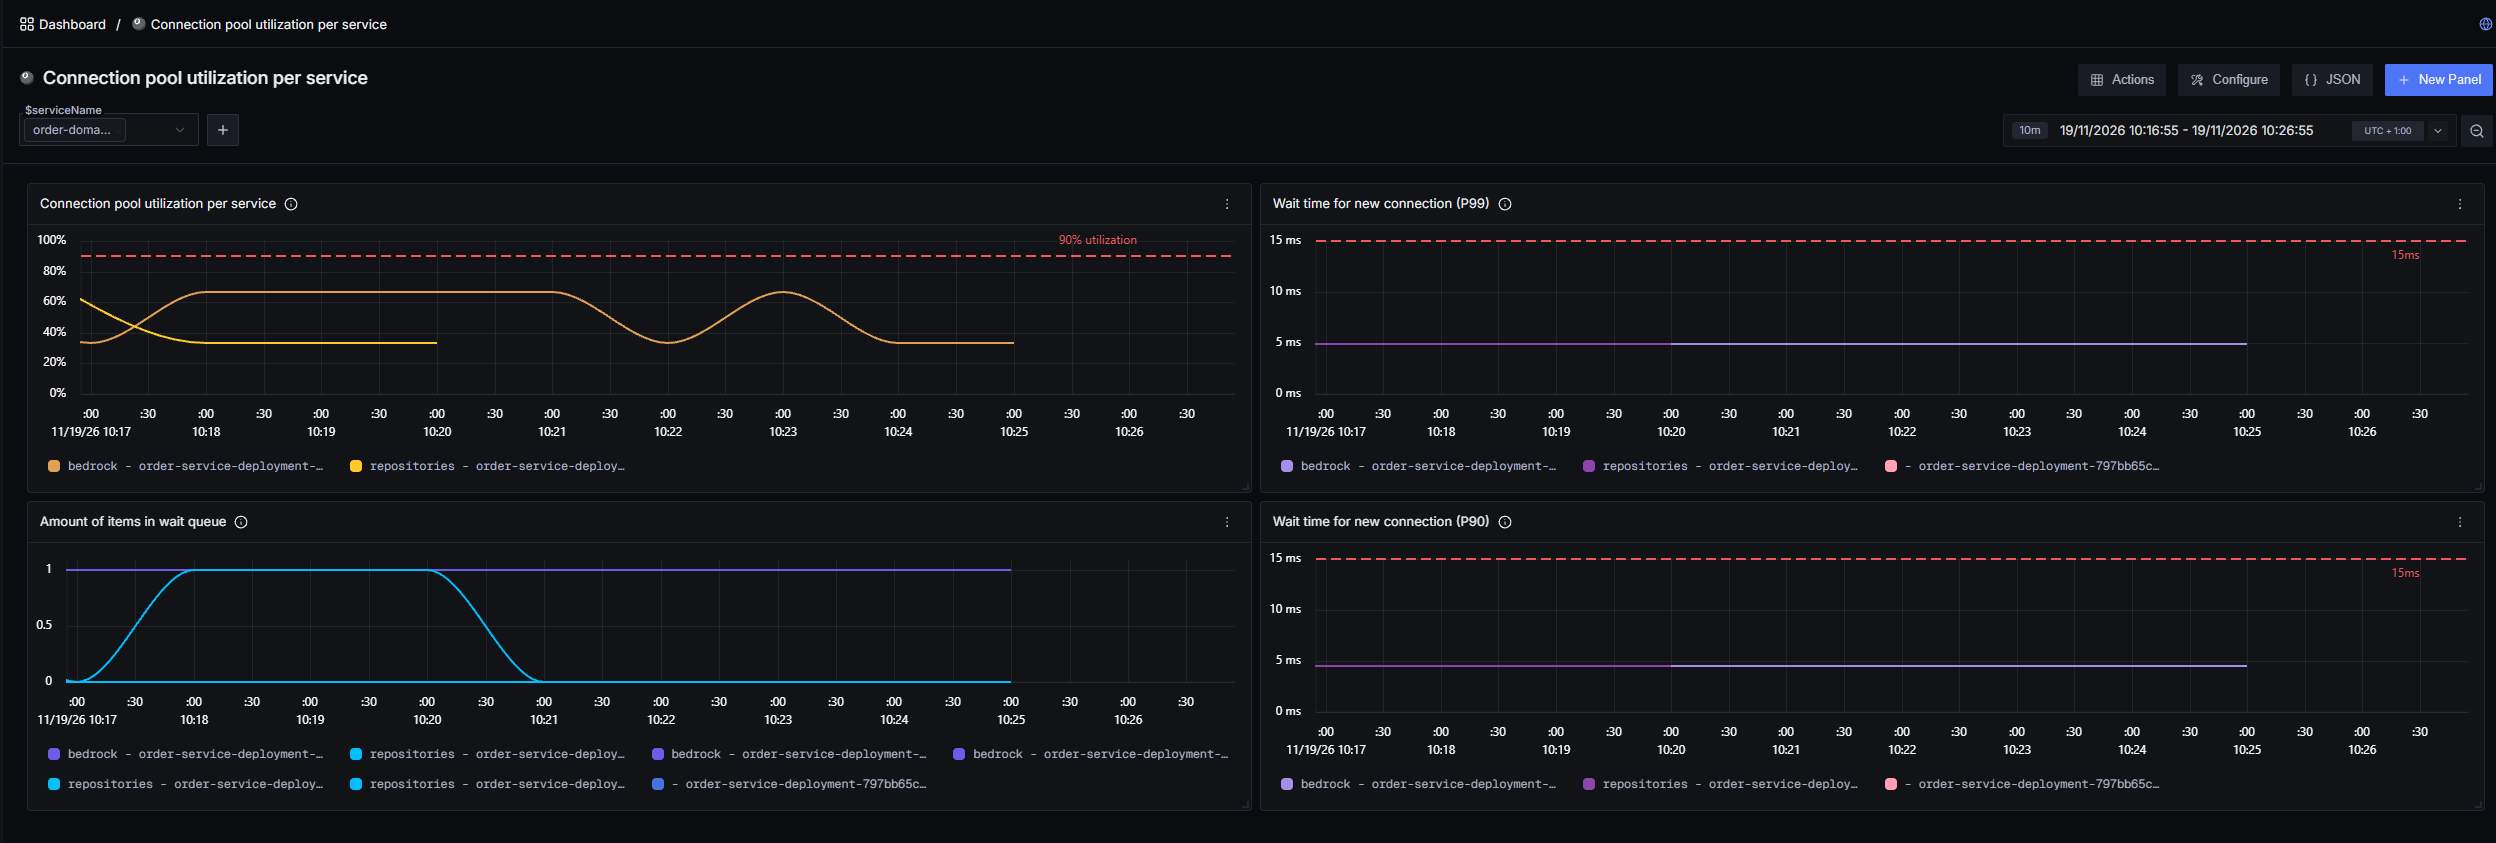
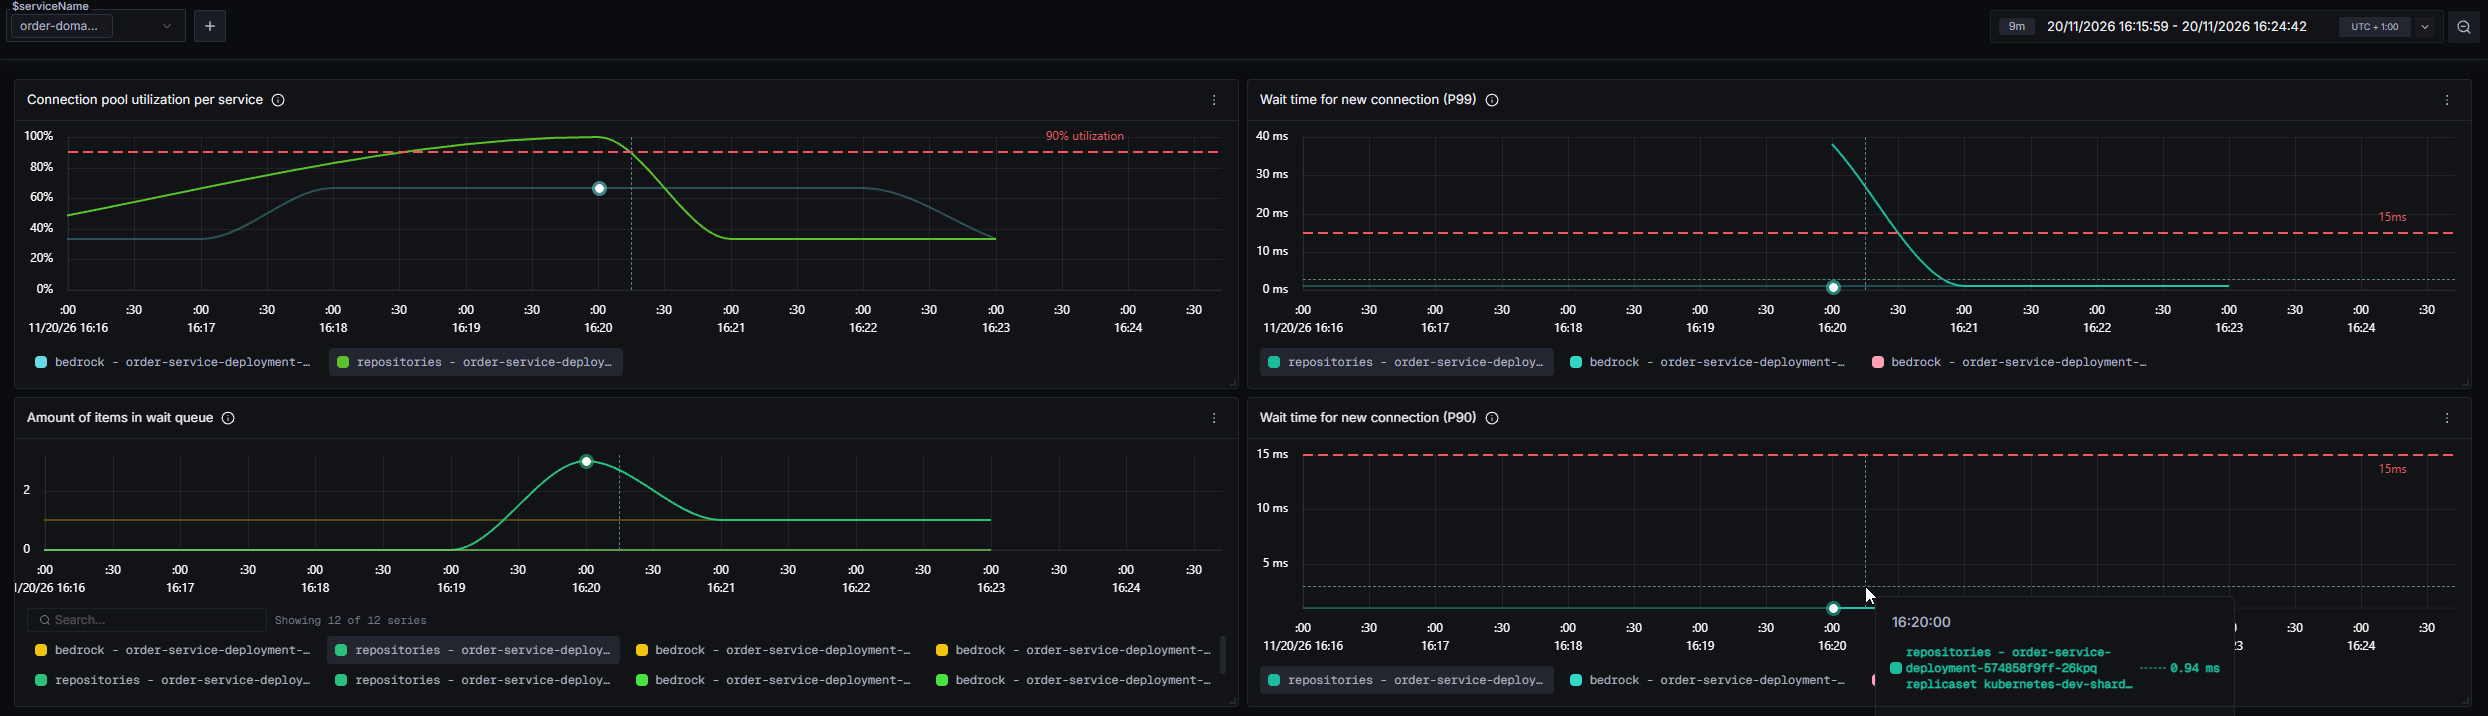
updated metrics to improve buckets (#2)
* updated metrics to improve buckets

* test

* made first bucket be equal to default

* updated the bucket configuration for the histogram

* updated resource

* updated version

---------

diff --git a/Mongo.Connection.Telemetry/MongoConnectionTracingExtensions.cs b/Mongo.Connection.Telemetry/MongoConnectionTracingExtensions.cs
@@ -94,11 +94,18 @@ public static class MongoConnectionTracingExtensions
     /// Adds the MongoDB connection metrics meter to the OpenTelemetry meter provider builder.
     /// </summary>
     /// <param name="metricProviderBuilder">The meter provider builder to configure.</param>
+    /// <param name="bucketHistogramConfiguration">Optional explicit bucket histogram configuration for the meter views. Defaults to explicit boundaries: [0, 1, 2, 3, 4, 5, 6, 7, 8, 9, 10, 15, 20, 50, 100, 250, 500, 1000, 5000, 10_000] if not provided.</param>
     /// <returns>The meter provider builder for chaining.</returns>
-    public static MeterProviderBuilder AddMongoConnectionMetrics(this MeterProviderBuilder metricProviderBuilder)
+    public static MeterProviderBuilder AddMongoConnectionMetrics(this MeterProviderBuilder metricProviderBuilder, ExplicitBucketHistogramConfiguration? bucketHistogramConfiguration = null)
     {
         ArgumentNullException.ThrowIfNull(metricProviderBuilder);
-        return metricProviderBuilder.AddMeter(MongoConnectionEventSubscriber.MeterName);
+        bucketHistogramConfiguration ??= new ExplicitBucketHistogramConfiguration
+        {
+            Boundaries = [0, 1, 2, 3, 4, 5, 6, 7, 8, 9, 10, 15, 20, 50, 100, 250, 500, 1000, 5000, 10_000]
+        };
+
+        return metricProviderBuilder.AddMeter(MongoConnectionEventSubscriber.MeterName)
+            .AddView(MongoConnectionEventSubscriber.MeterName, bucketHistogramConfiguration);
     }
 }
 

diff --git a/Mongo.Connection.Telemetry/MongoConnectionEventSubscriber.cs b/Mongo.Connection.Telemetry/MongoConnectionEventSubscriber.cs
@@ -90,7 +90,7 @@ public sealed class MongoConnectionEventSubscriber : IEventSubscriber
             ObservePendingRequests,
             "{request}",
             "Highest number of requests waiting for a connection since the previous collection.");
-        _ = Meter.CreateObservableUpDownCounter(
+        _ = Meter.CreateObservableGauge(
             "db.client.connection.max",
             ObserveMaxConnections,
             "{connection}",
@@ -98,7 +98,11 @@ public sealed class MongoConnectionEventSubscriber : IEventSubscriber
         _connectionWaitTime = Meter.CreateHistogram<double>(
             "db.client.connection.wait_time",
             "ms",
-            "Time spent waiting to obtain a connection from the pool.");
+            "Time spent waiting to obtain a connection from the pool.",
+            advice: new InstrumentAdvice<double>
+            {
+                HistogramBucketBoundaries = [0, 1, 2, 3, 4, 5, 6, 7, 8, 9, 10, 15, 20, 50, 100, 250, 500, 1000, 5000, 10_000]
+            });
     }
 
     /// <inheritdoc />

diff --git a/Mongo.Connection.Telemetry.Test/MongoConnectionTracingExtensionsTests.cs b/Mongo.Connection.Telemetry.Test/MongoConnectionTracingExtensionsTests.cs
@@ -160,10 +160,27 @@ public class MongoConnectionTracingExtensionsTests
     }
 
     [Fact]
-    public void AddMongoConnectionMetrics_RegistersMeter()
+    public void AddMongoConnectionMetrics_RegistersMeter_WithDefaultConfiguration()
     {
         var builder = Sdk.CreateMeterProviderBuilder();
         var result = builder.AddMongoConnectionMetrics();
+
+        result.Should().BeSameAs(builder);
+
+        using var meterProvider = builder.Build();
+        meterProvider.Should().NotBeNull();
+    }
+
+    [Fact]
+    public void AddMongoConnectionMetrics_RegistersMeter_WithCustomHistogramConfiguration()
+    {
+        var builder = Sdk.CreateMeterProviderBuilder();
+        var customConfiguration = new ExplicitBucketHistogramConfiguration
+        {
+            Boundaries = [5, 10, 25, 50, 100]
+        };
+
+        var result = builder.AddMongoConnectionMetrics(customConfiguration);
 
         result.Should().BeSameAs(builder);
 

diff --git a/README.md b/README.md
@@ -33,6 +33,18 @@ builder.Services.AddOpenTelemetry()
     });
 ```
 
+By default, `AddMongoConnectionMetrics` configures an `ExplicitBucketHistogramConfiguration` view for the meter with the following default bucket boundaries (in milliseconds):
+`[0, 1, 2, 3, 4, 5, 6, 7, 8, 9, 10, 15, 20, 50, 100, 250, 500, 1000, 5000, 10_000]`.
+
+You can optionally customize the bucket boundaries by passing a custom `ExplicitBucketHistogramConfiguration`:
+
+```csharp
+metrics.AddMongoConnectionMetrics(new ExplicitBucketHistogramConfiguration
+{
+    Boundaries = [0, 5, 10, 25, 50, 100, 250, 500, 1000, 2500, 5000]
+});
+```
+
 ### 2. Configure MongoDB Client Settings
 
 Subscribe the connection pool telemetry when configuring your `MongoClientSettings`.
